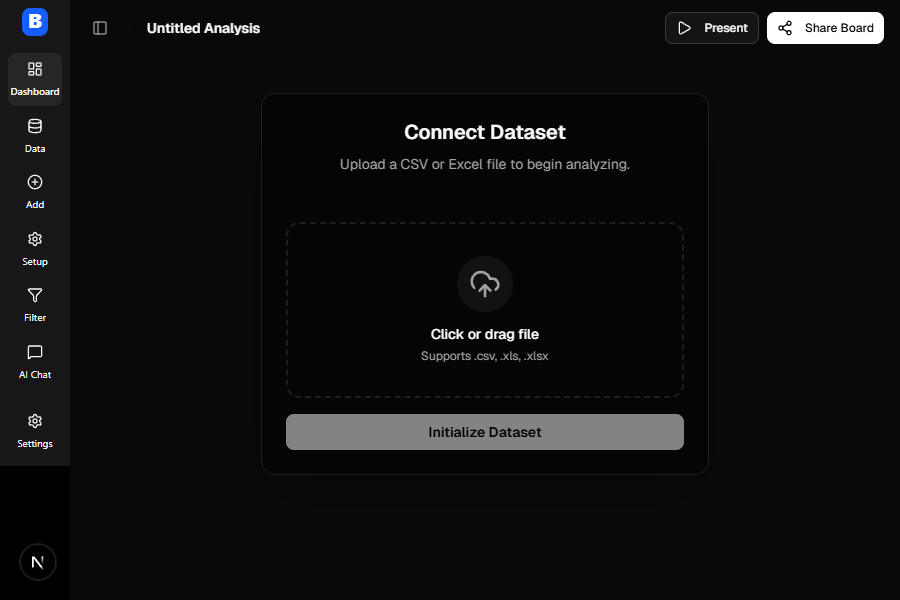
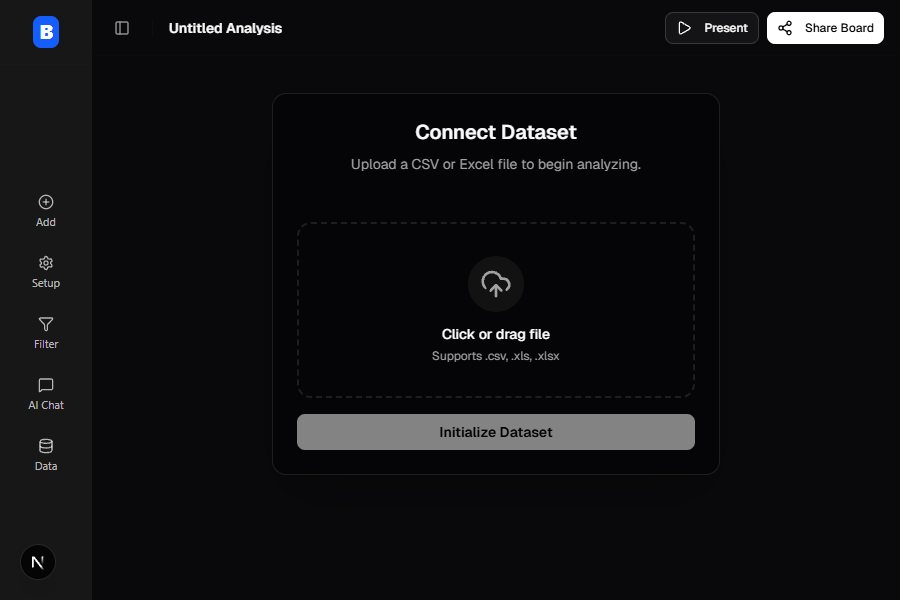
finally got it in the center

diff --git a/frontend/src/components/app-sidebar.tsx b/frontend/src/components/app-sidebar.tsx
@@ -1,92 +1,64 @@
 "use client"
 
+import type { CSSProperties } from "react"
+
 import {
   Sidebar,
-  SidebarContent,
-  SidebarGroup,
-  SidebarGroupContent,
-  SidebarMenu,
-  SidebarMenuButton,
-  SidebarMenuItem,
   SidebarHeader,
   SidebarFooter,
 } from "@/components/ui/sidebar"
-import { PlusCircle, Settings, MessageSquare, Filter, LayoutDashboard, Database } from "lucide-react"
+import { PlusCircle, Settings, MessageSquare, Filter, Database } from "lucide-react"
 
 const items = [
   {
-    title: "Dashboard",
-    icon: LayoutDashboard,
-    isActive: true,
-  },
-  {
-    title: "Data",
-    icon: Database,
-    isActive: false,
-  },
-  {
     title: "Add",
     icon: PlusCircle,
-    isActive: false,
   },
   {
     title: "Setup",
     icon: Settings,
-    isActive: false,
   },
   {
     title: "Filter",
     icon: Filter,
-    isActive: false,
   },
   {
     title: "AI Chat",
     icon: MessageSquare,
-    isActive: false,
+  },
+  {
+    title: "Data",
+    icon: Database,
   },
 ]
 
 export function AppSidebar() {
   return (
-    <Sidebar variant="inset" collapsible="icon">
-      <SidebarHeader className="border-b border-border/10 p-4">
-        <div className="flex items-center text-primary font-bold text-lg tracking-tight">
-          <div className="bg-blue-600 text-white px-1.5 py-0.5 rounded-md mr-0.5">
-             <span className="leading-none text-xl font-black">B</span>
+    <Sidebar variant="sidebar" collapsible="none" className="!h-svh" style={{ "--sidebar-width": "4.5rem" } as CSSProperties}>
+      <SidebarHeader className="border-b border-border/10 px-2 py-4 shrink-0">
+        <div className="flex items-center justify-center text-primary font-bold text-lg tracking-tight">
+          <div className="bg-blue-600 text-white px-1.5 py-0.5 rounded-md">
+            <span className="leading-none text-xl font-black">B</span>
           </div>
-          <span className="group-data-[collapsible=icon]:hidden">lueBalls</span>
         </div>
       </SidebarHeader>
-      <SidebarContent className="flex flex-col justify-center">
-        <SidebarGroup>
-          <SidebarGroupContent>
-            <SidebarMenu>
-              {items.map((item) => (
-                <SidebarMenuItem key={item.title}>
-                  <SidebarMenuButton asChild isActive={item.isActive} tooltip={item.title} className="hover:text-primary transition-colors">
-                    <a href="#">
-                      <item.icon className="w-5 h-5" />
-                      <span>{item.title}</span>
-                    </a>
-                  </SidebarMenuButton>
-                </SidebarMenuItem>
-              ))}
-            </SidebarMenu>
-          </SidebarGroupContent>
-        </SidebarGroup>
-      </SidebarContent>
-      <SidebarFooter className="p-4 border-t border-border/10">
-         <SidebarMenu>
-            <SidebarMenuItem>
-              <SidebarMenuButton asChild tooltip="Settings" className="hover:text-primary transition-colors">
-                <a href="#">
-                  <Settings className="w-5 h-5" />
-                  <span>Settings</span>
-                </a>
-              </SidebarMenuButton>
-            </SidebarMenuItem>
-          </SidebarMenu>
-      </SidebarFooter>
+
+      <div className="flex flex-1 flex-col items-center justify-center min-h-0">
+        <nav className="flex flex-col items-center gap-4">
+          {items.map((item) => (
+            <a
+              key={item.title}
+              href="#"
+              className="flex flex-col items-center justify-center gap-1.5 px-3 py-2 text-center text-sidebar-foreground/70 hover:text-primary transition-colors rounded-md hover:bg-sidebar-accent"
+            >
+              <item.icon className="h-4 w-4" />
+              <span className="text-[11px] leading-none">{item.title}</span>
+            </a>
+          ))}
+        </nav>
+      </div>
+
+      <SidebarFooter className="hidden" />
     </Sidebar>
   )
 }

diff --git a/frontend/src/app/globals.css b/frontend/src/app/globals.css
@@ -106,7 +106,7 @@
   --chart-3: oklch(0.769 0.188 70.08);
   --chart-4: oklch(0.627 0.265 303.9);
   --chart-5: oklch(0.645 0.246 16.439);
-  --sidebar: oklch(0.205 0 0);
+  --sidebar: oklch(0.1 0 0);
   --sidebar-foreground: oklch(0.985 0 0);
   --sidebar-primary: oklch(0.488 0.243 264.376);
   --sidebar-primary-foreground: oklch(0.985 0 0);
